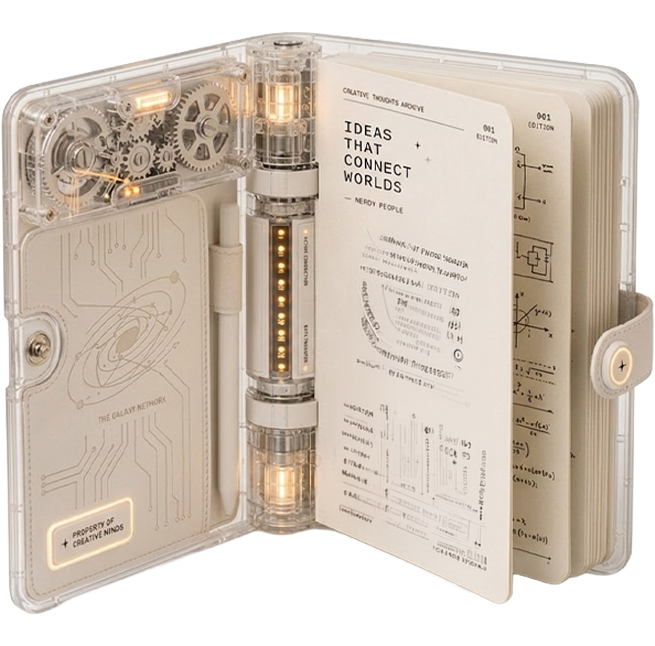
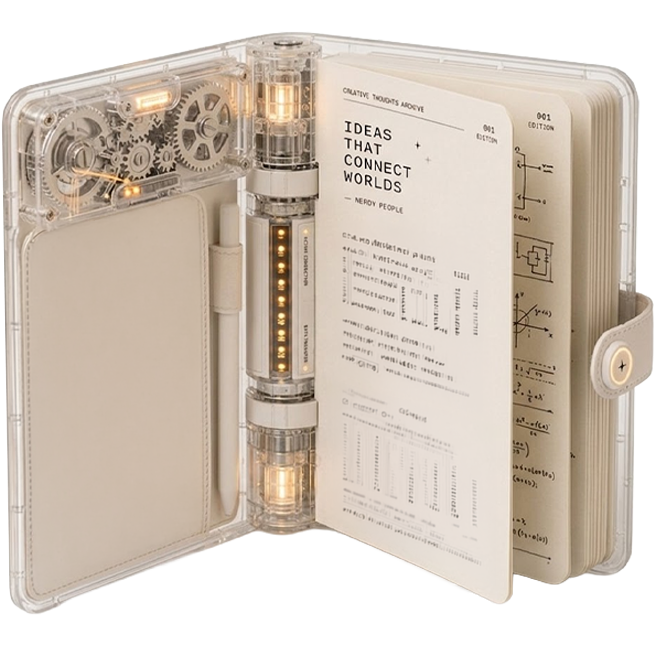
nav colors

diff --git a/src/nav.css b/src/nav.css
@@ -2,7 +2,7 @@
    NAV
    ============================================================ */
 .nav {
-  position: fixed;
+  position: absolute;
   top: 0;
   left: 0;
   right: 0;
@@ -11,19 +11,13 @@
   align-items: center;
   justify-content: space-between;
   padding: 16px clamp(20px, 5vw, 64px);
-  transition: filter 150ms var(--ease-out),
-              transform 480ms cubic-bezier(0.4, 0, 0.2, 1),
-              opacity 480ms cubic-bezier(0.4, 0, 0.2, 1);
-
-}
-
-.navContainer{
-  display: flex;
-  align-items: center;
-  justify-content: space-between;
-  width: 100%;
-    animation: navLogoIn 0.7s cubic-bezier(0.22, 1, 0.36, 1) both;
+  transition: filter 150ms var(--ease-out);
+  animation: navLogoIn 0.7s cubic-bezier(0.22, 1, 0.36, 1) both;
   -webkit-animation: navLogoIn 0.7s cubic-bezier(0.22, 1, 0.36, 1) both;
+  -webkit-transition: filter 150ms var(--ease-out);
+  -moz-transition: filter 150ms var(--ease-out);
+  -ms-transition: filter 150ms var(--ease-out);
+  -o-transition: filter 150ms var(--ease-out);
 }
 
 .nav__logo { padding: 0; display: flex; }
@@ -46,16 +40,6 @@
     transform: translateY(0);
   }
 }
-
-.nav.is-hidden {
-  transform: translateY(-110%) ;
-  opacity: 0;
-  -webkit-transform: translateY(-110%) ;
-  -moz-transform: translateY(-110%) ;
-  -ms-transform: translateY(-110%) ;
-  -o-transform: translateY(-110%) ;
-}
-
 
 .nav__links { display: flex; gap: clamp(14px, 2vw, 30px); align-items: center; }
 .nav__link {
@@ -195,8 +179,8 @@
   padding: 10px 16px;
   border-radius: 10px;
   color: #fff;
-  font-family: Horizon;
-  font-size: 20px;
+  font-family: var(--font-body);
+  font-size: 24px;
   font-weight: 700;
   letter-spacing: 0.06em;
   text-transform: uppercase;

diff --git a/src/components/nav.jsx b/src/components/nav.jsx
@@ -85,11 +85,11 @@ function SocialBar() {
 
 
 const NAV_SECTIONS = [
-  { label: 'Hello World',    id: 'top' },
-  { label: 'Collabs', id: 'proyectos' },
-  { label: 'The Spark',  id: 'services' },
-  { label: 'Drops',     id: 'drops' },
-  { label: 'Contacto',  id: 'contacto' },
+  { label: 'Home',    id: 'top', color: "#E2FF0D" },
+  { label: 'Collabs', id: 'proyectos', color: "#2892FB" },
+  { label: 'The Spark',  id: 'services', color: "#22B656" },
+  { label: 'Drops',     id: 'drops', color: "#F35544" },
+  { label: 'Contacto',  id: 'contacto', color: "#D142A4" },
 ];
 
 function FloatingMenu() {
@@ -169,13 +169,11 @@ function Nav() {
   }, []);
   const toTop = () => window.scrollTo({ top: 0, behavior: "smooth" });
   return (
-    <nav className={`nav ${scrolled ? "is-scrolled" : ""} ${hidden ? "is-hidden" : ""}`}>
-      <div className="navContainer">
-        <button className="nav__logo" aria-label="Inicio">
+    <nav className={`nav ${scrolled ? "is-scrolled" : ""}`}>
+      <button className="nav__logo" aria-label="Inicio">
         <img src={ `${process.env.PUBLIC_URL}/assets/logo/CNP_Brand.png`} alt="Nerdy People" />
       </button>
       <FloatingMenu />
-      </div>
     </nav>
   );
 }
